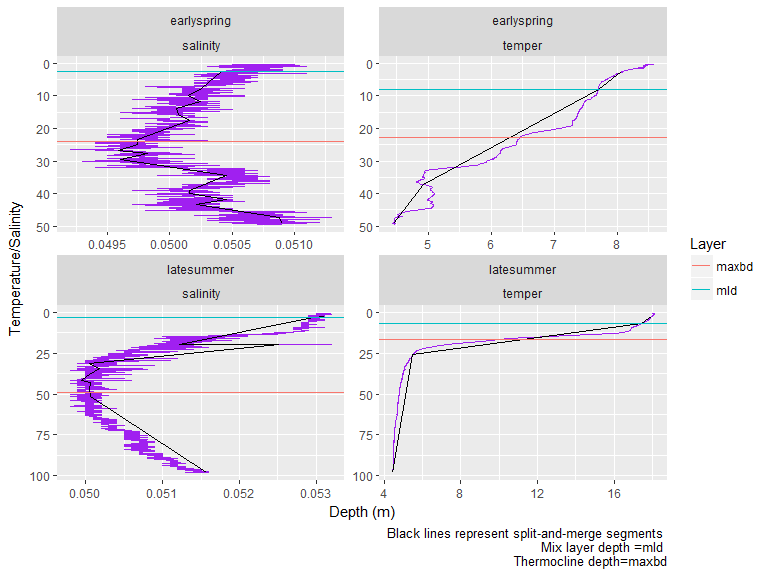
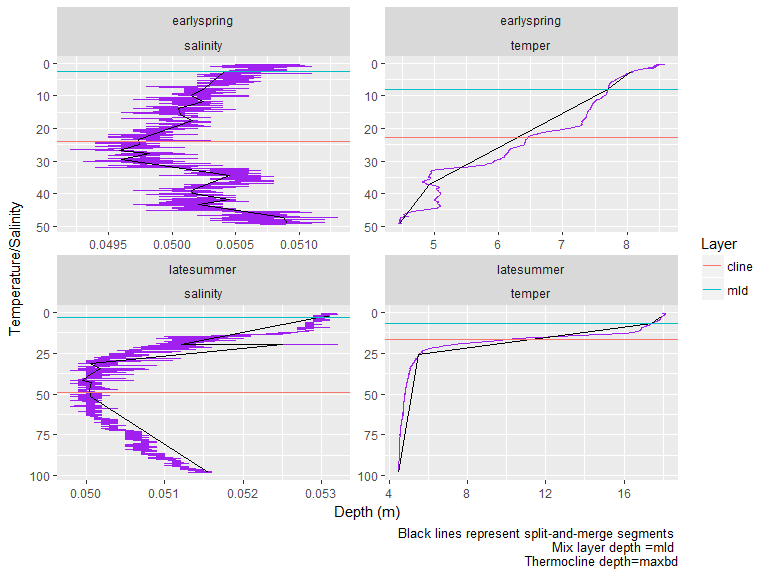
Updated vignette to use mater branch

diff --git a/vignettes/limnotools.md b/vignettes/limnotools.md
@@ -1,7 +1,7 @@
 Limnotools Usage
 ================
 Sam Albers and Doug Collinge
-2017-02-02
+2017-02-03
 
 Package loading
 ---------------
@@ -17,7 +17,7 @@ library(tidyverse)
 Currently using sam\_exp branch
 
 ``` r
-devtools::install_github("boshek/limnotools", ref = "sam_exp")
+devtools::install_github("boshek/limnotools")
 
 library(limnotools)
 ```
@@ -41,8 +41,8 @@ wldf <- wtr_layer(depth = latesummer$depth, measure = latesummer$temper)
 wldf
 ```
 
-    ##   nseg      mld    maxbd
-    ## 1    3 6.718292 16.33231
+    ##   nseg      mld    cline
+    ## 1    4 6.718292 16.33231
 
 Note that the axes of the water column profile have been reversed and flipped to better visualize the water column and conform to standard limnological displays.
 
@@ -97,10 +97,10 @@ wl_df
     ## 2 salinity  latesummer   mld  2.896572
     ## 3   temper earlyspring   mld  8.073714
     ## 4   temper  latesummer   mld  6.718292
-    ## 5 salinity earlyspring maxbd 24.069020
-    ## 6 salinity  latesummer maxbd 49.175213
-    ## 7   temper earlyspring maxbd 22.636168
-    ## 8   temper  latesummer maxbd 16.332306
+    ## 5 salinity earlyspring cline 24.069020
+    ## 6 salinity  latesummer cline 49.175213
+    ## 7   temper earlyspring cline 22.636168
+    ## 8   temper  latesummer cline 16.332306
 
 The same applies to wtr\_segments()
 
